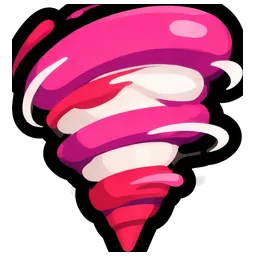
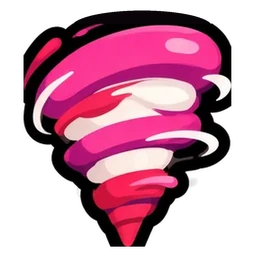
Whirlwind button: full tornado art (rounded top) and long item names fit the round button (queued for the next ship)
Claude-Session: https://claude.ai/code/session_01MLbS6HungMVFLYm7rG9pFB

diff --git a/tools/q260.py b/tools/q260.py
@@ -9,7 +9,7 @@ assert s.count('<p class="ver">Version %s</p>' % OLD) == 1; s = s.replace('<p cl
 # its boss (tools/v311_conquest_boss.py), the boss demo (tools/v315_boss_demo.py) and everything built on them (v316_keep_look,
 # v316_boss_bar, v316_boss_sfx, v317_boss_moves, v318_boss_moves2, v319_boss_intro, v319_keep_polish) stay in tools/ but out of this
 # list, so the Season Conquest card says "coming soon" as it did before v315.)
-for m in ['v257_intro', 'v260_intro_glue', 'v269_settings', 'v269_boot', 'v270_loadout', 'v271_whirl', 'v272_tips', 'v273_modes', 'v274_victory', 'v275_strokes', 'v276_claim', 'v277_flat', 'v278_bootbar', 'v279_aggressive', 'v280_ready', 'v281_transforms', 'v282_modes_short', 'v283_skip_sfx_sd', 'v284_vs_center', 'v285_items', 'v285_feed', 'v285_intro_set', 'v285_intro_drum', 'v285_intro_turn', 'v285_first_steer', 'v285_hide', 'v286_items_craft', 'v287_strokes_paper', 'v288_intro_title', 'v289_rookie_line', 'v290_trysd_open', 'v291_strokes_notebook', 'v292_unlock_line', 'v293_trial_board', 'v293_perf', 'v294_lane_soft', 'v295_turn_cam', 'v296_char_lod', 'v297_lesson_safe', 'v298_lesson_flat', 'v299_pause_turn', 'v300_quiet_hold_conquest', 'v301_boomerang', 'v302_wearables', 'v303_lesson_pass', 'v304_small_asks', 'v305_friends', 'v306_accounts', 'v306_lobby', 'v306_match', 'v307_small_asks', 'v308_names_perf', 'v309_small_asks', 'v310_orb_items', 'v311_handles', 'v312_account_restore', 'v313_strokes_gear', 'v314_ko_tally', 'v314_play_feel', 'v321_ads', 'v322_special_demos', 'v323_card_strip', 'v324_card_spacing', 'v325_info_up', 'v326_friends_page', 'v327_locker_shop', 'v328_tap_moods', 'v329_grey_paint', 'v330_eyes_gift', 'v331_portraits', 'v332_lesson_perf', 'v333_shop_filters', 'v334_friends_faces', 'v335_ad_wait', 'v336_sly_open', 'v337_locker_zoom', 'v338_locker_hang', 'v339_locker_tab', 'v340_lesson_ad', 'v341_fr_faces', 'v342_stats_kd', 'v343_stats_title', 'v344_vs_bar', 'v345_show_ffa', 'v346_menu_account', 'v347_item_turns', 'v348_item_rare', 'v349_delete_deeper', 'v350_ios_polish', 'v351_native', 'v352_landscape', 'v353_no_conquest', 'v354_stats', 'v355_email', 'v356_lesson', 'v357_rival', 'v358_free', 'v359_lock', 'v360_rank_line', 'v361_intro_iris', 'v362_tip_dodge', 'v363_tap_off', 'v364_st_cards', 'v365_trap_cpu', 'v366_trap_fresh', 'v367_prep', 'v367_duo', 'v368_wear', 'v369_season', 'v370_strokebuy', 'v371_learned', 'v371_fold', 'v372_lobbycam', 'v373_eyespace', 'v374_tipstill', 'v375_turret', 'v376_ghost', 'v377_foldside', 'v378_easy2', 'v381_dabs', 'v382_spinframe', 'v383_adfree', 'v384_strokes', 'v385_bloop', 'v386_adfree_small', 'v387_skins', 'v388_skins2', 'v389_galaxy', 'v390_duo', 'v390_keyboard', 'v390_basics_song', 'v390_whirl_sfx', 'v391_party', 'v391_showdown_online', 'v391_first_name', 'v392_party_you', 'v392_party_host', 'v393_online_modes', 'v394_party_modes', 'v395_item_eyes', 'v396_rename_online', 'v397_plus_corner', 'v398_canvas_ready', 'v399_pause_settings', 'v400_result_buttons', 'v401_giant_longer', 'v402_note_after_account', 'v403_party_left', 'v404_small', 'v404_bomb', 'v404_skills', 'v404_zombie_skin', 'v405_no_cape', 'v405_feel', 'v405_perf', 'v406_vote_land', 'v407_vic_land', 'v407_small', 'v407_grey_swatch', 'v407_pot_hide', 'v407_locker_gap', 'v407_trial_rings', 'v407_play_tweaks', 'v407_pot_rise', 'v407_emotes', 'v408_free_emotes', 'v409_tap_dip', 'v410_comm_done', 'v411_no_shop_links', 'v412_portraits_back', 'v413_party_cpus', 'v414_comms_board', 'v414_dab_rewards', 'v415_online_cpu_rate', 'v416_party_picker', 'v417_polish_menus', 'v418_back_buttons', 'v417_polish_match', 'v419_char_anim', 'v418_duo_column', 'v424_duo_cover', 'v421_wave', 'v422_emote_art', 'v425_canvas_photos', 'v423_duo_open', 'v426_online_basins', 'v427_online_items', 'v428_board_orb', 'v429_pick_corner', 'v430_mem_guard', 'v431_jackpot_text'] + [m for m in os.environ.get('EXTRA', '').split(',') if m]: # (EXTRA: modules on trial, after the list)
+for m in ['v257_intro', 'v260_intro_glue', 'v269_settings', 'v269_boot', 'v270_loadout', 'v271_whirl', 'v272_tips', 'v273_modes', 'v274_victory', 'v275_strokes', 'v276_claim', 'v277_flat', 'v278_bootbar', 'v279_aggressive', 'v280_ready', 'v281_transforms', 'v282_modes_short', 'v283_skip_sfx_sd', 'v284_vs_center', 'v285_items', 'v285_feed', 'v285_intro_set', 'v285_intro_drum', 'v285_intro_turn', 'v285_first_steer', 'v285_hide', 'v286_items_craft', 'v287_strokes_paper', 'v288_intro_title', 'v289_rookie_line', 'v290_trysd_open', 'v291_strokes_notebook', 'v292_unlock_line', 'v293_trial_board', 'v293_perf', 'v294_lane_soft', 'v295_turn_cam', 'v296_char_lod', 'v297_lesson_safe', 'v298_lesson_flat', 'v299_pause_turn', 'v300_quiet_hold_conquest', 'v301_boomerang', 'v302_wearables', 'v303_lesson_pass', 'v304_small_asks', 'v305_friends', 'v306_accounts', 'v306_lobby', 'v306_match', 'v307_small_asks', 'v308_names_perf', 'v309_small_asks', 'v310_orb_items', 'v311_handles', 'v312_account_restore', 'v313_strokes_gear', 'v314_ko_tally', 'v314_play_feel', 'v321_ads', 'v322_special_demos', 'v323_card_strip', 'v324_card_spacing', 'v325_info_up', 'v326_friends_page', 'v327_locker_shop', 'v328_tap_moods', 'v329_grey_paint', 'v330_eyes_gift', 'v331_portraits', 'v332_lesson_perf', 'v333_shop_filters', 'v334_friends_faces', 'v335_ad_wait', 'v336_sly_open', 'v337_locker_zoom', 'v338_locker_hang', 'v339_locker_tab', 'v340_lesson_ad', 'v341_fr_faces', 'v342_stats_kd', 'v343_stats_title', 'v344_vs_bar', 'v345_show_ffa', 'v346_menu_account', 'v347_item_turns', 'v348_item_rare', 'v349_delete_deeper', 'v350_ios_polish', 'v351_native', 'v352_landscape', 'v353_no_conquest', 'v354_stats', 'v355_email', 'v356_lesson', 'v357_rival', 'v358_free', 'v359_lock', 'v360_rank_line', 'v361_intro_iris', 'v362_tip_dodge', 'v363_tap_off', 'v364_st_cards', 'v365_trap_cpu', 'v366_trap_fresh', 'v367_prep', 'v367_duo', 'v368_wear', 'v369_season', 'v370_strokebuy', 'v371_learned', 'v371_fold', 'v372_lobbycam', 'v373_eyespace', 'v374_tipstill', 'v375_turret', 'v376_ghost', 'v377_foldside', 'v378_easy2', 'v381_dabs', 'v382_spinframe', 'v383_adfree', 'v384_strokes', 'v385_bloop', 'v386_adfree_small', 'v387_skins', 'v388_skins2', 'v389_galaxy', 'v390_duo', 'v390_keyboard', 'v390_basics_song', 'v390_whirl_sfx', 'v391_party', 'v391_showdown_online', 'v391_first_name', 'v392_party_you', 'v392_party_host', 'v393_online_modes', 'v394_party_modes', 'v395_item_eyes', 'v396_rename_online', 'v397_plus_corner', 'v398_canvas_ready', 'v399_pause_settings', 'v400_result_buttons', 'v401_giant_longer', 'v402_note_after_account', 'v403_party_left', 'v404_small', 'v404_bomb', 'v404_skills', 'v404_zombie_skin', 'v405_no_cape', 'v405_feel', 'v405_perf', 'v406_vote_land', 'v407_vic_land', 'v407_small', 'v407_grey_swatch', 'v407_pot_hide', 'v407_locker_gap', 'v407_trial_rings', 'v407_play_tweaks', 'v407_pot_rise', 'v407_emotes', 'v408_free_emotes', 'v409_tap_dip', 'v410_comm_done', 'v411_no_shop_links', 'v412_portraits_back', 'v413_party_cpus', 'v414_comms_board', 'v414_dab_rewards', 'v415_online_cpu_rate', 'v416_party_picker', 'v417_polish_menus', 'v418_back_buttons', 'v417_polish_match', 'v419_char_anim', 'v418_duo_column', 'v424_duo_cover', 'v421_wave', 'v422_emote_art', 'v425_canvas_photos', 'v423_duo_open', 'v426_online_basins', 'v427_online_items', 'v428_board_orb', 'v429_pick_corner', 'v430_mem_guard', 'v431_jackpot_text', 'v432_item_icon_fit'] + [m for m in os.environ.get('EXTRA', '').split(',') if m]: # (EXTRA: modules on trial, after the list)
     s = importlib.import_module(m).apply(s); print(m, 'ok')
 if '--test' in sys.argv:
     a = '\nrequestAnimationFrame(frame);\n};'; assert s.count(a) == 1; s = s.replace(a, '\nwindow.__T = { ev: s => eval(s) };' + a)

diff --git a/tools/v432_item_icon_fit.py b/tools/v432_item_icon_fit.py
@@ -1,0 +1,14 @@
+"""v432: the held item button. The Whirlwind's painted tornado was drawn a little larger than its box, so its top was cut off, and
+long item names ran past the round button. The picture (whose painted outline was cropped flat at the top: art/it_whirl.webp now has its rounded top) now sits inside its box, and a long name is set smaller and tighter."""
+
+def rep(s, a, b, n=1):
+    c = s.count(a); assert c == n, (c, n, a[:160]); return s.replace(a, b)
+
+CSS = ".itemBtn .ilbl.lng{font-size:8px;letter-spacing:0}@media (max-height:520px) and (min-aspect-ratio:1/1){.itemBtn .ilbl.lng{font-size:7px}}.itemBtn.ib2 .ilbl.lng,.itemBtn.orbBtn .ilbl.lng{font-size:7px;letter-spacing:0}\n"
+
+def apply(s):
+    s = rep(s, '<image href="art/it_whirl.webp" x="-2" y="-2" width="44" height="44"/>', '<image href="art/it_whirl.webp" x="2" y="1" width="36" height="36"/>')
+    s = rep(s, "'<span class=\"ilbl\">' + PU[h2].name + '</span>'", "'<span class=\"ilbl' + (PU[h2].name.length > 7 ? ' lng' : '') + '\">' + PU[h2].name + '</span>'")
+    s = rep(s, "'<span class=\"ilbl\">' + PU[held].name + '</span>'", "'<span class=\"ilbl' + (PU[held].name.length > 7 ? ' lng' : '') + '\">' + PU[held].name + '</span>'")
+    i = s.index(".itemBtn.in{animation:slamin"); s = s[:i] + CSS + s[i:]
+    return s
